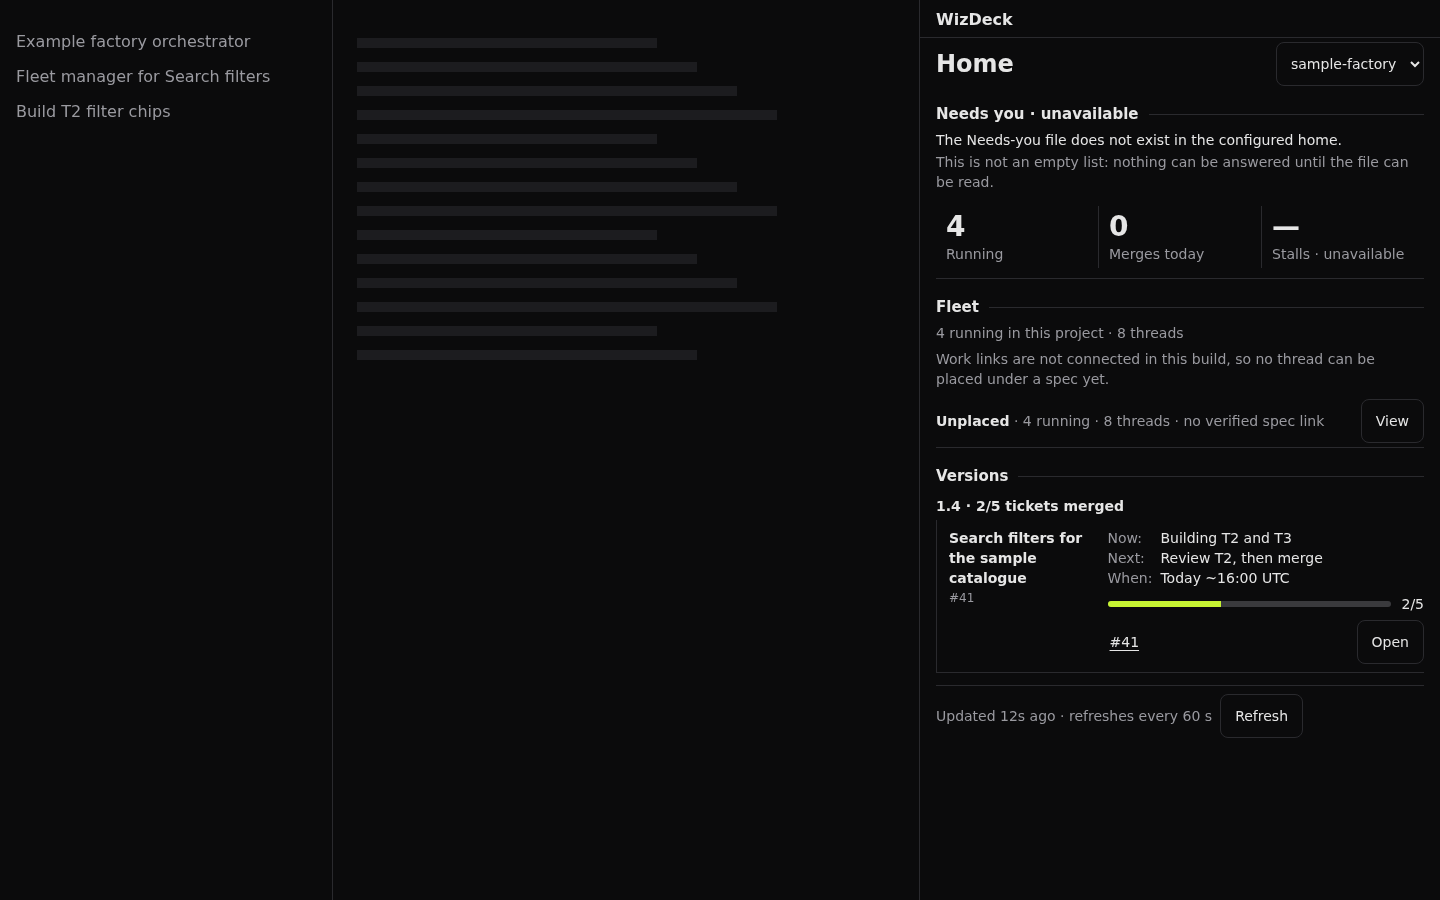
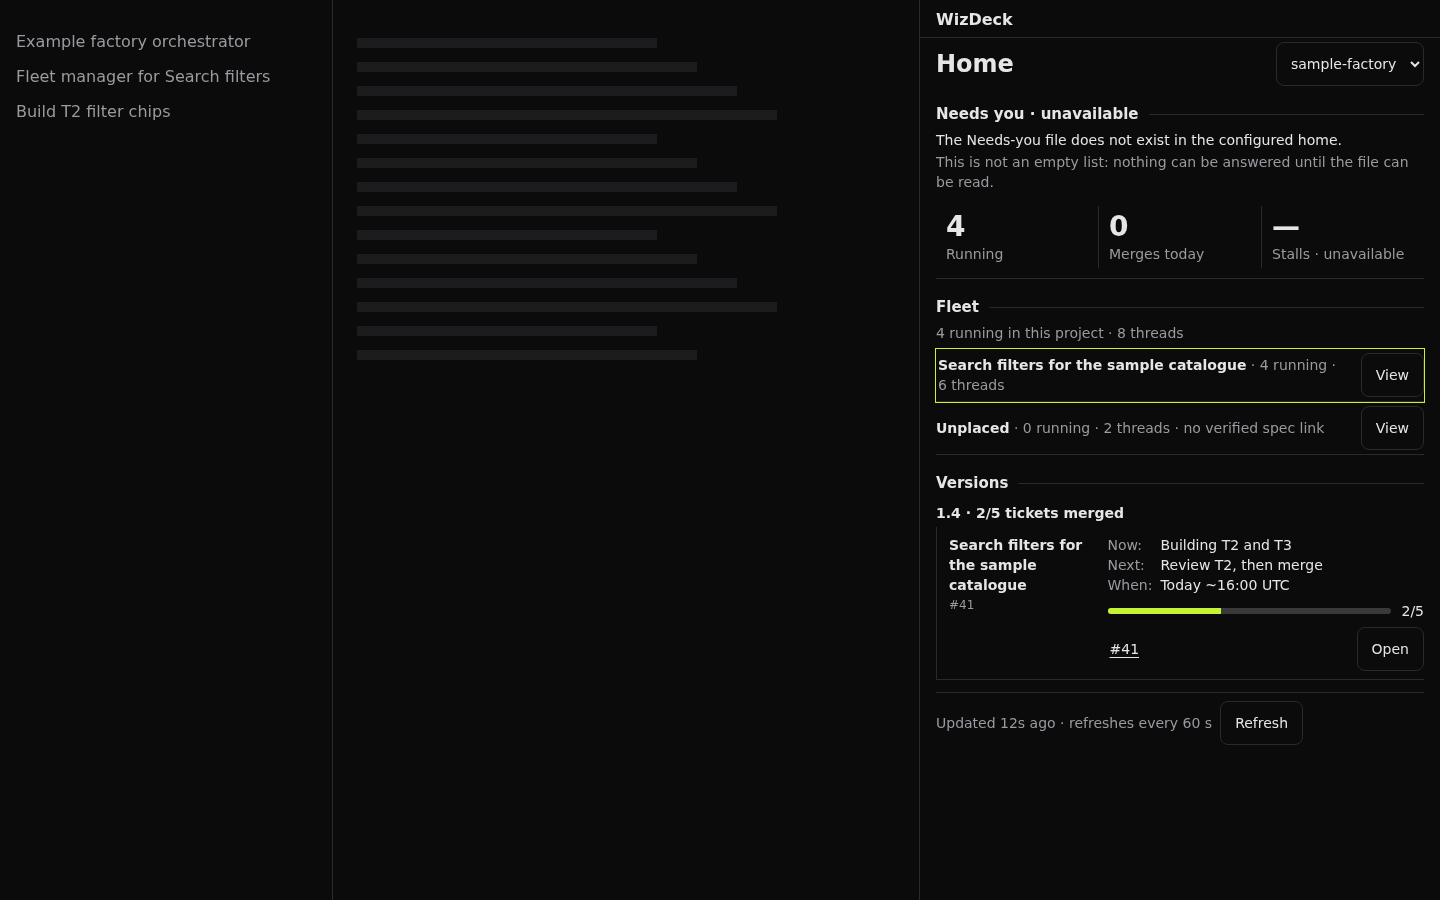
#75 F1: green: revision 4 fleet links lease, Home wiring and B1 membership seam; typecheck and 893 tests pass

Changed region(s): [[0.625, 0.3733, 1.0, 0.8089]]

diff --git a/wizbar/src/deck/fleet/fleet-server.test.ts b/wizbar/src/deck/fleet/fleet-server.test.ts
@@ -97,12 +97,13 @@ describe("fleet work links in the shared cache", () => {
     const view = firstLinks(await t.watch("desk-tab"));
     expect(view.snapshot).toMatchObject({ status: "unavailable", reason: "rate-limited", lastGood: { data: { pullRequests: [{ ref: "example-org/sample-app#52" }] } } });
     expect(t.linkCalls()).toHaveLength(2); // No retry before the reset.
-    // The deadline is the real one: still held just before it, read again once it passes.
-    for (let at = 4 * REFRESH_MS; at < 9 * REFRESH_MS; at += 30_000) { await t.watch("desk-tab"); await vi.advanceTimersByTimeAsync(30_000); }
-    expect(t.linkCalls()).toHaveLength(2);
+    // The deadline is the real one: GitHub's reset, 10 minutes in. Held up to 30 s before it…
     t.setLinks((call) => ({ status: 200, body: links(`${call.variables?.owner}/${call.variables?.name}`) }));
-    for (let at = 9 * REFRESH_MS; at < 12 * REFRESH_MS; at += 30_000) { await t.watch("desk-tab"); await vi.advanceTimersByTimeAsync(30_000); }
-    expect(t.linkCalls().length).toBeGreaterThanOrEqual(3);
+    for (let at = 4 * REFRESH_MS; at < 10 * REFRESH_MS - 30_000; at += 30_000) { await t.watch("desk-tab"); await vi.advanceTimersByTimeAsync(30_000); }
+    expect(t.linkCalls()).toHaveLength(2);
+    // …then exactly one read once it passes.
+    await t.watch("desk-tab"); await vi.advanceTimersByTimeAsync(30_000);
+    expect(t.linkCalls()).toHaveLength(3);
     expect(firstLinks(await t.watch("desk-tab")).snapshot).toMatchObject({ status: "ready", stale: false });
   });
 
